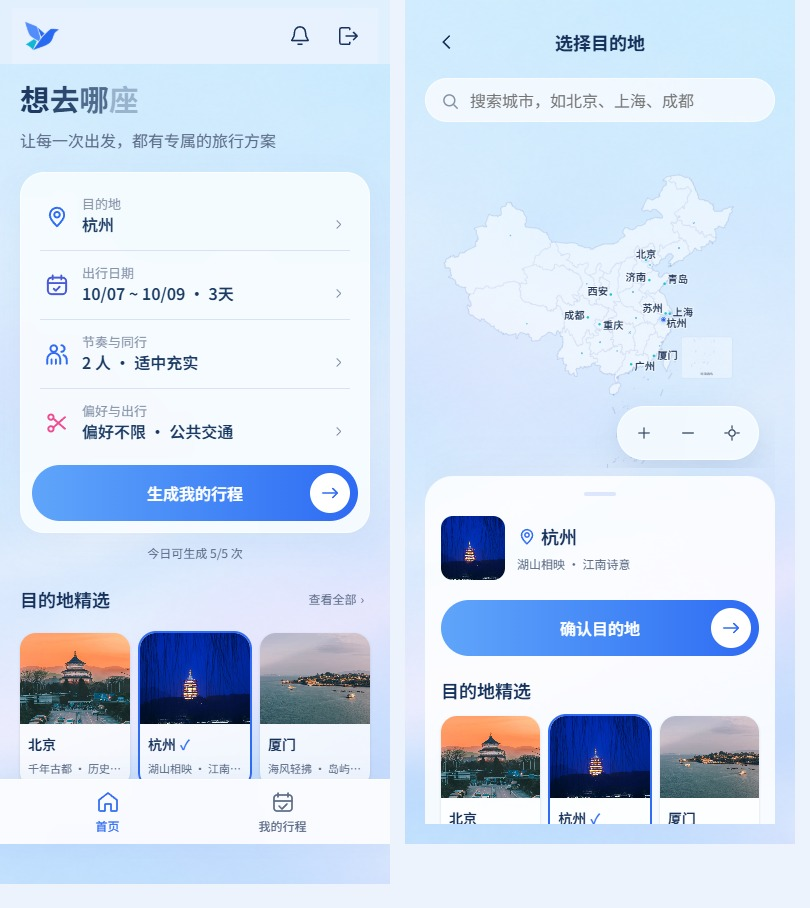
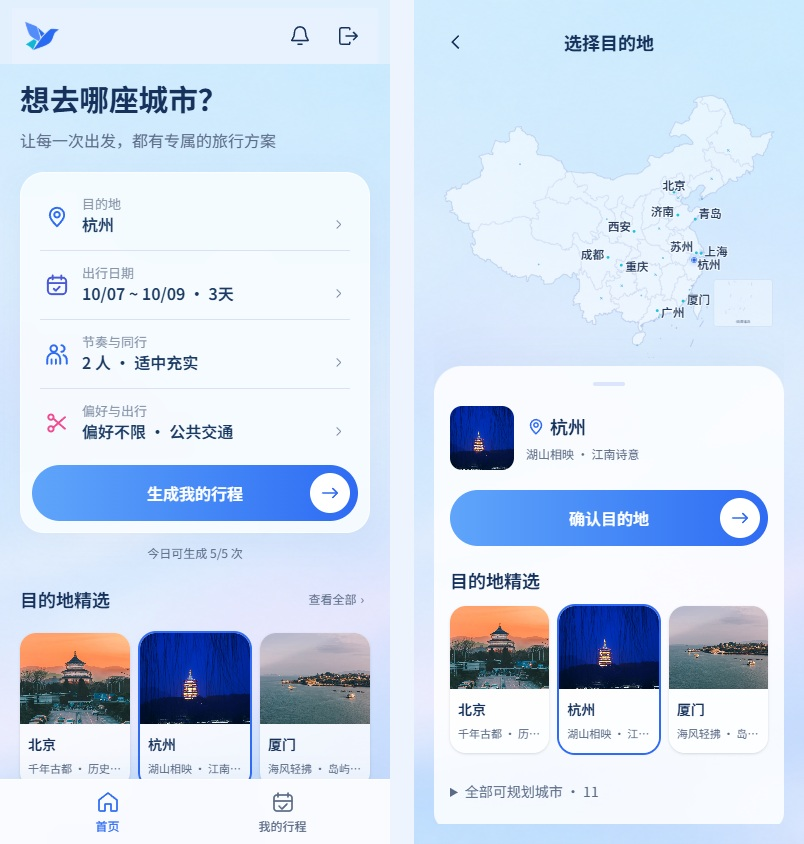
chore: record journal

diff --git a/.trellis/tasks/10-05-home-mobile-layout/research/verification.md b/.trellis/tasks/10-05-home-mobile-layout/research/verification.md
@@ -2,7 +2,9 @@
 
 ## 当前结果
 - 手机首屏为行程规划卡片，下方为目的地精选；顶部保留品牌、通知和登录/退出入口，首页和行程列表提供底部导航。
-- 目的地使用全屏 Modal，支持搜索、地图缩放/重置、候选预览、确认、取消、浏览器返回/前进和直接查询链接。取消不改变城市；日期与账号偏好草稿保留。
+- 目的地使用全屏 Modal，移除顶部搜索框；从地图、精选或全部可规划城市列表选择，支持候选预览、确认、取消、浏览器返回/前进和直接查询链接。取消不改变城市；日期与账号偏好草稿保留。
+- 按 2026-10-06 最新修正：手机地图固定为完整 900×700 画布等比适配，保留南海诸岛插图。拖拽、滚轮和双指缩放不改变地图，隐藏右下工具组，纵向手势仍可滚动页面。桌面拖拽、缩放/重置保持原行为。
+- 首页与选择页的目的地精选选中后只显示边框高亮和 aria-pressed 状态，不再显示勾号。
 - 日期、节奏/人数、偏好复用原有表单与底部弹层，保留桌面地图和横向胶囊。
 - 按用户最新要求复用现有已审核图库：北京天坛、杭州雷峰塔、厦门鼓浪屿。沿用 eligibleReview、署名、用户排除与 verifiedPhotoBytes 门槛，原始文件 SHA-256 全部一致。来源与审核记录见 apps/web/src/assets/destinations/sources.json。
 - 精选仅与接口返回城市取交集。图片失败依次降级为城市插画、可访问占位；未覆盖城市不能选入。
@@ -11,19 +13,21 @@
 - npm run typecheck：通过。
 - npm run build -w apps/web：通过，保留既有大包体提示。
 - HOME_TEST_URL=http://127.0.0.1:5175 node apps/web/tests/home-mobile-browser.mjs：最终构建 8/8 通过，320×568、375×812、390×844、430×932、768×1024、844×390、1024×768、1440×900。
-- 该回归覆盖四种面板、单/双月日历、范围选择、长备注、取消/Back/Forward、直接查询链接、生成参数、访客登录、空/错误城市、真实触摸滚动、图片与插画失败、列表底部导航和草稿阶段零业务写入。
-- node apps/web/tests/login-dialog-browser.mjs：通过。
-- node --import tsx apps/web/tests/navigation-notifications-browser.mjs：通过，包括通知、后台生成和离页保存保护。
-- BASE=http://127.0.0.1:5174 node --import tsx apps/web/tests/travel-preferences-browser.mjs：通过，包括仅成功生成后记忆、失败不保存、账号隔离和保存失败重试。已更新测试以适配跨断点关闭弹层及退出后的首页登录弹窗。
+- 本轮新增覆盖：无搜索框/手机工具组、整张地图画布不裁切、鼠标拖动/滚轮/原生横滑/原生双指缩放不改变地图、纵向触摸滚动、全部城市列表点选、精选无勾号，以及桌面缩放后切换手机再返回桌面的默认视图恢复。
+- 该回归还覆盖四种面板、单/双月日历、范围选择、长备注、取消/Back/Forward、直接查询链接、生成参数、访客登录、空/错误城市、图片与插画失败、列表底部导航和草稿阶段零业务写入。
+- 前轮 node apps/web/tests/login-dialog-browser.mjs：通过；本轮仅调整目的地地图与精选，未重复执行。
+- 前轮 node --import tsx apps/web/tests/navigation-notifications-browser.mjs：通过，包括通知、后台生成和离页保存保护。
+- 前轮 BASE=http://127.0.0.1:5174 node --import tsx apps/web/tests/travel-preferences-browser.mjs：通过，包括仅成功生成后记忆、失败不保存、账号隔离和保存失败重试。已更新测试以适配跨断点关闭弹层及退出后的首页登录弹窗。
 - git diff --check：通过。
-- node --test apps/web/tests/styles.test.mjs：仍因既有 LoginPage.tsx 原生 button 失败；与上一版验证记录一致，该文件未改。
-- 已查看手机、小屏日期弹层、全屏目的地、实景图、桌面截图；11 城预览中济南向左避开青岛，增加相邻标签不重叠断言。最终调整后类型检查、构建和 8 尺寸回归再次通过。
+- 前轮 node --test apps/web/tests/styles.test.mjs：因既有 LoginPage.tsx 原生 button 失败；该文件未改，本轮未重复执行。
+- 本轮已查看 320/390/768px、844px 横屏目的地和 1440px 桌面截图。主地图与南海插图完整显示，相邻标签无重叠。类型检查、构建和 8 尺寸回归再次通过。
 
 ## 预览与证据
 - 独立界面预览：http://127.0.0.1:5175/ （固定隔离数据，只读，不创建真实行程）。
 - 启动命令：node .trellis/tasks/10-05-home-mobile-layout/research/preview.mjs，需要先构建 apps/web。
 - 已在真实浏览器验证该预览可展示图片、选择杭州、打开目的地弹窗。
 - 截图：after/mobile-preview.jpg、after/home-ready.png、after/destination.png、after/date.png、after/desktop.png。
+- 截图更新脚本：node .trellis/tasks/10-05-home-mobile-layout/research/capture-preview.mjs；访问上述隔离预览并复制本轮回归截图。
 - 8 尺寸测试结果：after/results.json；完整截图保留在 data/home-mobile-verification。
 - 登录与导航回归截图移入本任务 research/regressions，其他任务原有截图保持不变。
 - 原 5173 开发服务曾返回陈旧模块错误且后端 API 返回 502，因此最后的账号回归改用独立构建预览 5174（验证后已停止），交付预览使用 5175。

diff --git a/.trellis/tasks/10-05-home-mobile-layout/prd.md b/.trellis/tasks/10-05-home-mobile-layout/prd.md
@@ -6,7 +6,8 @@
 ## Requirements
 - 2026-10-06 用户确认按下载目录参考 UI 图重做移动端：首屏直接规划，下方目的地精选；城市地图移入全屏选择界面。
 - 顶部简化为标志、通知与账户入口；首页和行程列表的手机底部导航提供「首页 / 我的行程」。
-- 目的地界面支持返回、城市搜索、地图点选、城市预览和确认；确认才更新首页目的地，取消保留原选择。浏览器返回可关闭，其他草稿不丢失。
+- 目的地界面支持返回、地图点选、全部城市列表、城市预览和确认；确认才更新首页目的地，取消保留原选择。浏览器返回可关闭，其他草稿不丢失。
+- 2026-10-06 用户调整：移除选择目的地顶部搜索框；手机地图固定为完整展示的比例，不可拖拽或缩放，隐藏右下角工具组，继续支持点选城市和纵向页面滚动；精选卡片选中只保留边框高亮，不显示勾号。
 - 目的地精选只取知识库已覆盖城市，真实图片本地存储并记录来源；图片缺失降级为现有城市插画或占位。
 - 2026-10-06 用户指定复用现有已审核图库：静态精选优先北京、杭州、厦门，沿用既有采用门槛与用户排除记录，核对本地字节摘要，不新增外部搜索或审图。
 - 卡片使用乳白玻璃背景、细分隔线、彩色图标和右箭头；主按钮显示「生成我的行程」，缺少条件时有可见说明。
@@ -17,7 +18,8 @@
 
 ## Acceptance Criteria
 - [ ] 参考图的首屏规划卡片、精选图片与底部导航落实，无横向溢出和遮挡。
-- [ ] 城市搜索、地图点选、预览、确认和取消/浏览器返回正确，未覆盖城市不出现。
+- [ ] 无顶部搜索框；手机地图完整展示，拖动/缩放不改变地图且无工具组，城市点选正常；精选选中无勾号。
+- [ ] 全部城市列表、地图点选、预览、确认和取消/浏览器返回正确，未覆盖城市不出现。
 - [ ] 日期/节奏/偏好草稿在选择城市和返回后保留，生成参数与账号隔离保持正确。
 - [ ] 320 / 375 / 390 / 768px、横屏及桌面验证，包含图片失效与空/错误状态。
 - [ ] typecheck、构建与相关浏览器验证通过。

diff --git a/.trellis/workspace/aimer/index.md b/.trellis/workspace/aimer/index.md
@@ -8,7 +8,7 @@
 
 <!-- @@@auto:current-status -->
 - **Active File**: `journal-1.md`
-- **Total Sessions**: 33
+- **Total Sessions**: 34
 - **Last Active**: 2026-10-06
 <!-- @@@/auto:current-status -->
 
@@ -19,7 +19,7 @@
 <!-- @@@auto:active-documents -->
 | File | Lines | Status |
 |------|-------|--------|
-| `journal-1.md` | ~1351 | Active |
+| `journal-1.md` | ~1385 | Active |
 <!-- @@@/auto:active-documents -->
 
 ---
@@ -29,6 +29,7 @@
 <!-- @@@auto:session-history -->
 | # | Date | Title | Commits | Branch |
 |---|------|-------|---------|--------|
+| 34 | 2026-10-06 | 预约资料冲突降级与无源语料降权 | `e488221` | `master` |
 | 33 | 2026-10-06 | 行程卡片固定图片列并移除活动添加入口 | `e4b6d6d`, `d4fba52`, `91792af` | `master` |
 | 32 | 2026-10-06 | 总览建议图标与卡片对齐微调 | `c482788`, `ef341d4` | `master` |
 | 31 | 2026-10-05 | 修复选图额度饥饿并补齐全城中英别名 | `b5fbec1`, `b485d51`, `918d36a`, `fbdc606` | `master` |
